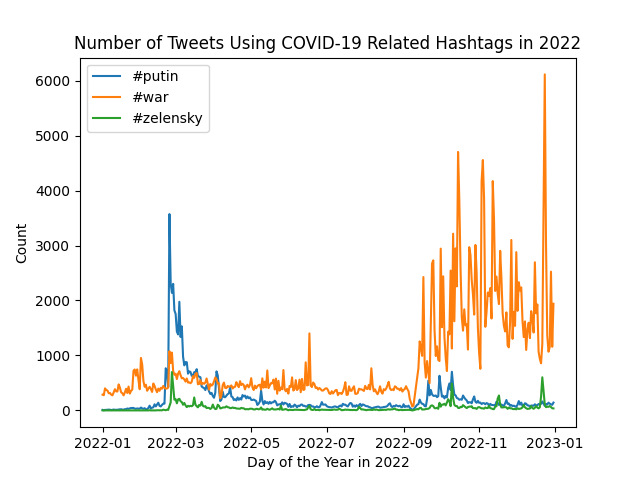
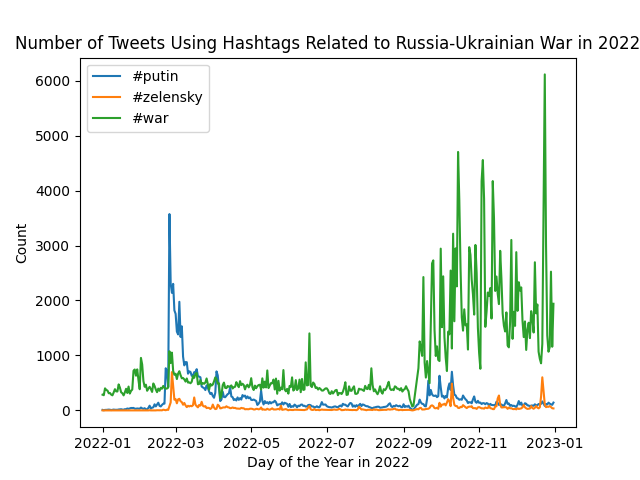
update graph

Changed region(s): [[0.1562, 0.1562, 0.875, 0.875], [0.0, 0.0625, 1.0, 0.125], [0.2188, 0.1875, 0.3125, 0.2812]]

diff --git a/src/alternative_reduce.py b/src/alternative_reduce.py
@@ -59,5 +59,5 @@ for k in args.keys:
 plt.legend()
 plt.ylabel("Count")
 plt.xlabel("Day of the Year in 2022")
-plt.title("Number of Tweets Using COVID-19 Related Hashtags in 2022")
+plt.title("Number of Tweets Using Hashtags Related to Russia-Ukrainian War in 2022")
 plt.savefig("year_hashtag_graph.png")
